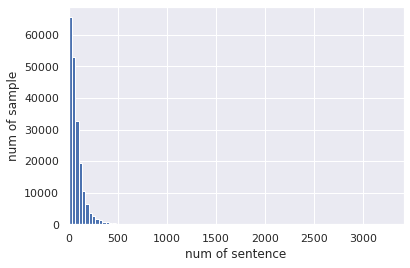
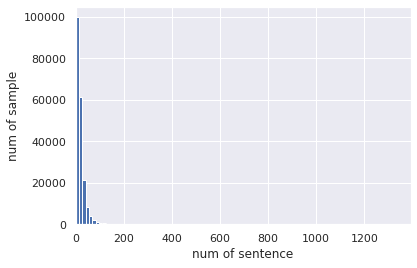
modify 2

diff --git a/source/_posts/【竞赛打卡】零基础入门NLP之新闻文本分类之数据读取与分析.md b/source/_posts/【竞赛打卡】零基础入门NLP之新闻文本分类之数据读取与分析.md
@@ -277,27 +277,53 @@ for i in range(5):
 
 **假设字符3750，字符900和字符648是句子的标点符号，请分析赛题每篇新闻平均由多少个句子构成？**
 
-思路：计算每篇新闻所含标点符号的个数，该新闻的句子数为个数
+如果这是英文文章，那么3750应该是空格吧？如果3750是逗号怎么办？先要判断哪个是句号。
+
+思路：该新闻的句子数为该个数。每条新闻最后的字符往往是句号，先看看每条新闻最后一个字符是什么：
+
+```python
+last_char = np.vectorize(lambda x:int(x.split()[-1]))(df_train['text'])
+last_char_count = Counter(last_char)
+last_char_count = sorted(last_char_count.items(), key=lambda d:d[1], reverse=True)
+# 打印出现次数最多的前十个
+for i in range(10):
+    print("{}在新闻末尾出现了{}次".format(last_char_count[i][0], last_char_count[i][1]))
+900在新闻末尾出现了85040次
+2662在新闻末尾出现了39273次
+885在新闻末尾出现了14473次
+1635在新闻末尾出现了7379次
+2465在新闻末尾出现了7076次
+57在新闻末尾出现了3284次
+3231在新闻末尾出现了2758次
+1633在新闻末尾出现了2706次
+3568在新闻末尾出现了1504次
+2265在新闻末尾出现了1389次
+```
+
+因此我们有理由认为900是句号。值域3750应该是逗号吧？猜的，我也不知道，因为3750不太容易在新闻末尾出现。但是除了句号之外，感叹号和问号照样能划分句子，我们试着将2662当作感叹号，将885当作问号。
+
+下面开始计算每篇新闻所含标点符号（900、2662、885）的个数，
+
 ```python
 def sum_of_sep(row):
     counter = Counter(row.split())
-    return counter.get('3750', 0)+counter.get('900', 0)+counter.get('648', 0)
+    return counter.get('900', 0)+counter.get('2662', 0)+counter.get('885', 0)
 sum_sep = np.vectorize(sum_of_sep)(df_train['text'])
 print("平均每条新闻的句子个数约为：", np.round(np.mean(sum_sep)))
 pd.Series(sum_sep).describe()
 
-平均每条新闻的句子个数约为： 78.0
+平均每条新闻的句子个数约为： 19.0
 count    200000.000000
-mean         78.348290
-std          85.519746
+mean         19.070155
+std          21.463798
 min           0.000000
-25%          27.000000
-50%          55.000000
-75%         101.000000
-max        3417.000000
+25%           7.000000
+50%          14.000000
+75%          24.000000
+max        1392.000000
 dtype: float64
 ```
-平均长度为78，其实这是把那些股票文章也算上了，拉高了平均值。75%的新闻长度都在100个句子以下。
+平均长度为19，其实这是把那些股票文章也算上了，拉高了平均值。75%的新闻长度都在24个句子以下。
 
 看看分布：
 
@@ -373,3 +399,5 @@ for label in range(14):
 4. 赛题的数据集类别分布存在较为不均匀的情况。在训练集中科技类新闻最多，其次是股票类新闻，最少的新闻是星座新闻。需要用采样方法解决。文章最长的是股票类新闻。
 
 5. 训练集中总共包括6869个字，最大数字为7549，最小数字为0，其中编号3750的字出现的次数最多，编号3133的字出现的次数最少，仅出现一次，其中字符3750、字符900和字符648在20w新闻的覆盖率接近99%，很有可能是标点符号。
+
+6. 900很有可能是句号，2662和885则很有可能为感叹号和问号，3750出现频率很高但是基本不在新闻最后出现，因此初步判断为逗号。按照这种划分，训练集中每条新闻平均句子个数约为19。
